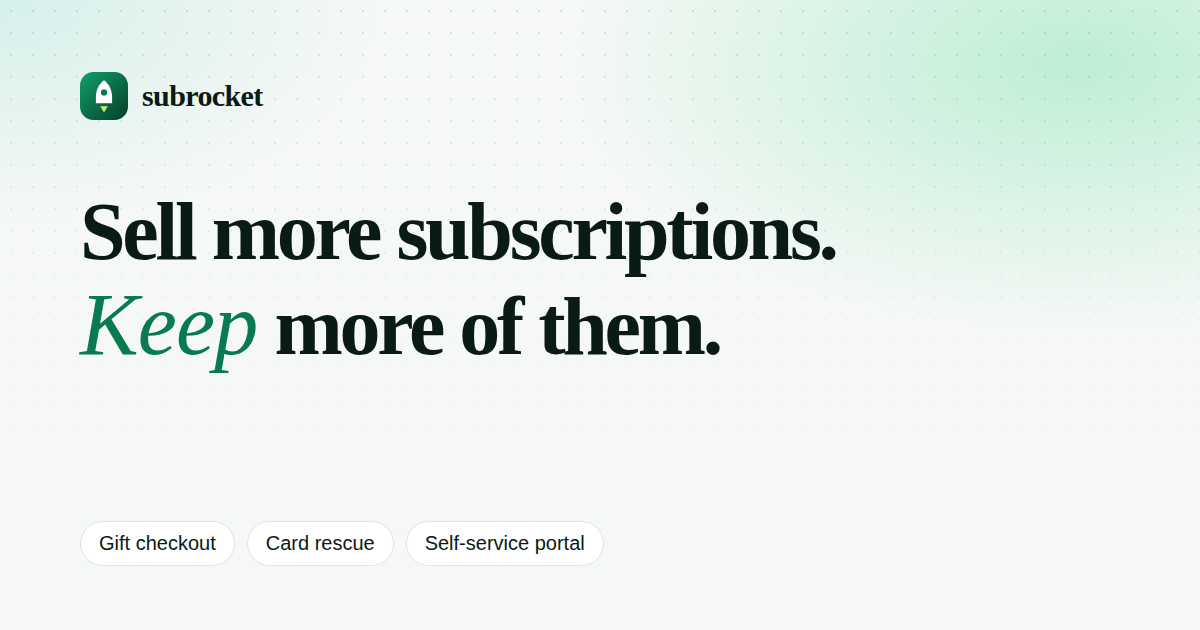
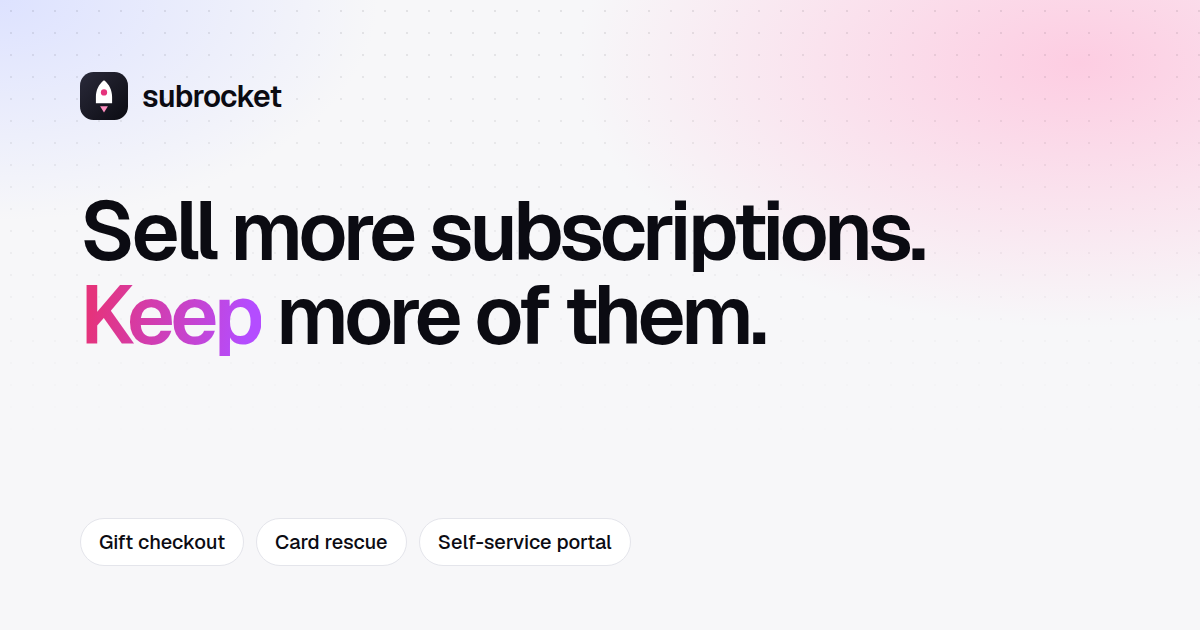
subrocket: ink and pink palette, Geist type, compact feature cards
Drop the green for near-black ink with a hot-pink accent and a
pink-to-violet gradient on accent words. Use Geist for headlines and
body. Collapse the three feature rows into compact cards with one line
and one number each, and stop calling them modules.

Claude-Session: https://claude.ai/code/session_01GQbYrLZqbEoq4zdKj7EZiu

diff --git a/subrocket/src/components/ProductPreview.tsx b/subrocket/src/components/ProductPreview.tsx
@@ -23,7 +23,7 @@ import { cn } from '@/lib/utils'
 const PRICE = 24
 
 const toggleItem =
-  'h-9 flex-1 rounded-md border border-border bg-background text-sm font-medium text-muted-foreground first:rounded-l-md last:rounded-r-md data-[state=on]:border-primary data-[state=on]:bg-accent data-[state=on]:text-accent-foreground'
+  'h-9 flex-1 rounded-md border border-border bg-background text-sm font-medium text-muted-foreground first:rounded-l-md last:rounded-r-md data-[state=on]:border-pop data-[state=on]:bg-accent data-[state=on]:text-accent-foreground'
 
 function Checkout() {
   const [gift, setGift] = useState(false)
@@ -46,7 +46,7 @@ function Checkout() {
       <div
         className={cn(
           'flex items-center justify-between gap-4 rounded-xl border px-4 py-3 transition-colors',
-          gift ? 'border-primary/50 bg-accent' : 'border-border bg-muted/50',
+          gift ? 'border-pop/50 bg-accent' : 'border-border bg-muted/50',
         )}
       >
         <Label htmlFor="gift-toggle" className="flex cursor-pointer items-center gap-2.5 text-sm font-medium">
@@ -57,7 +57,7 @@ function Checkout() {
           id="gift-toggle"
           checked={gift}
           onCheckedChange={setGift}
-          className="data-[state=checked]:bg-brand"
+          className="data-[state=checked]:bg-pop"
         />
       </div>
 
@@ -127,24 +127,24 @@ function Rescue() {
     <div className="space-y-5">
       <div className="flex items-center justify-between gap-4 rounded-xl border border-border bg-muted/50 p-4">
         <div className="flex items-center gap-3">
-          <div className="flex h-9 w-14 items-center justify-center rounded-md bg-gradient-to-br from-brand to-brand-deep font-mono text-[0.65rem] font-medium tracking-widest text-white">VISA</div>
+          <div className="flex h-9 w-14 items-center justify-center rounded-md bg-gradient-to-br from-pop to-pop-deep font-mono text-[0.65rem] font-medium tracking-widest text-white">VISA</div>
           <div>
             <p className="font-mono text-sm">•••• 0341</p>
             <p className="text-xs text-muted-foreground">Expires 11/26</p>
           </div>
         </div>
-        <Badge className="rounded-full border-primary/30 bg-accent text-accent-foreground">
+        <Badge className="rounded-full border-pop/30 bg-accent text-accent-foreground">
           <Check aria-hidden="true" /> Rescued
         </Badge>
       </div>
 
-      <ol className="relative space-y-5 pl-1 before:absolute before:left-[17px] before:top-3 before:h-[calc(100%-1.5rem)] before:w-px before:bg-gradient-to-b before:from-primary/50 before:to-brand/60">
+      <ol className="relative space-y-5 pl-1 before:absolute before:left-[17px] before:top-3 before:h-[calc(100%-1.5rem)] before:w-px before:bg-gradient-to-b before:from-primary/50 before:to-pop/60">
         {rescueSteps.map((step) => (
           <li key={step.day} className="relative flex gap-4">
             <span
               className={cn(
                 'relative z-10 flex size-8 shrink-0 items-center justify-center rounded-full ring-4 ring-card',
-                step.state === 'sent' ? 'bg-accent text-accent-foreground' : 'bg-brand text-white',
+                step.state === 'sent' ? 'bg-accent text-accent-foreground' : 'bg-pop text-white',
               )}
             >
               {step.state === 'sent' ? <Mail className="size-4" aria-hidden="true" /> : <Check className="size-4" aria-hidden="true" />}
@@ -180,13 +180,13 @@ function Portal() {
             <p className="text-xs text-muted-foreground">$24/mo · Renews Nov 3</p>
           </div>
         </div>
-        <Badge variant="outline" className={cn('rounded-full', paused && 'border-primary/30 bg-accent text-accent-foreground')}>
+        <Badge variant="outline" className={cn('rounded-full', paused && 'border-pop/30 bg-accent text-accent-foreground')}>
           {paused ? `Paused until ${resumeDates[pause]}` : 'Active'}
         </Badge>
       </div>
 
       {cancelling ? (
-        <div className="rounded-xl border border-primary/30 bg-frost p-4">
+        <div className="rounded-xl border border-pop/30 bg-cloud p-4">
           <p className="font-display text-base font-semibold">Before you go</p>
           <p className="mt-1 text-sm text-muted-foreground">Take two months off instead. You won’t be charged while paused.</p>
           <div className="mt-4 flex flex-wrap gap-2">
@@ -209,7 +209,7 @@ function Portal() {
       ) : (
         <div className="rounded-xl border border-border bg-muted/50 p-4">
           <p className="flex items-center gap-2 text-sm font-medium">
-            <Pause className="size-4 text-primary" aria-hidden="true" /> Pause deliveries
+            <Pause className="size-4 text-pop" aria-hidden="true" /> Pause deliveries
           </p>
           <ToggleGroup
             type="single"
@@ -275,8 +275,8 @@ export default function ProductPreview() {
 
   return (
     <div className="relative w-full">
-      <div className="absolute -inset-6 -z-10 rounded-[2.5rem] bg-gradient-to-br from-mint via-white/40 to-frost blur-2xl" aria-hidden="true" />
-      <div className="overflow-hidden rounded-2xl border border-border bg-card shadow-[0_40px_80px_-30px_rgb(5_61_41/0.35),0_2px_6px_rgb(5_61_41/0.06)]">
+      <div className="absolute -inset-6 -z-10 rounded-[2.5rem] bg-gradient-to-br from-pop-soft via-white/40 to-cloud blur-2xl" aria-hidden="true" />
+      <div className="overflow-hidden rounded-2xl border border-border bg-card shadow-[0_40px_80px_-30px_rgb(11_11_18/0.35),0_2px_6px_rgb(11_11_18/0.06)]">
         <div className="flex items-center gap-3 border-b border-border bg-muted/40 px-4 py-2.5">
           <div className="flex gap-1.5" aria-hidden="true">
             <span className="size-2.5 rounded-full bg-border" />
@@ -296,7 +296,7 @@ export default function ProductPreview() {
                 <TabsTrigger
                   key={t.value}
                   value={t.value}
-                  className="rounded-full text-xs font-medium sm:text-sm data-[state=active]:text-primary data-[state=active]:shadow-sm"
+                  className="rounded-full text-xs font-medium sm:text-sm data-[state=active]:text-pop data-[state=active]:shadow-sm"
                 >
                   {t.label}
                 </TabsTrigger>

diff --git a/subrocket/src/styles/global.css b/subrocket/src/styles/global.css
@@ -2,27 +2,25 @@
 @import "tw-animate-css";
 
 /*
- * subrocket design system: "Fresh growth"
- * Cool, light canvas with a green cast. Deep green for action, lime as a rare highlight.
+ * subrocket design system: "Ink & pop"
+ * Cool off-white canvas, near-black ink for text and buttons, one hot-pink accent.
  * Fonts are loaded with <link> tags in Layout.astro.
  */
 
 @custom-variant dark (&:is(.dark *));
 
 @theme {
-  --font-display: 'Instrument Sans', ui-sans-serif, sans-serif;
-  --font-serif: 'Instrument Serif', ui-serif, Georgia, serif;
+  --font-display: 'Geist', ui-sans-serif, sans-serif;
   --font-body: 'Geist', ui-sans-serif, sans-serif;
   --font-sans: 'Geist', ui-sans-serif, sans-serif;
   --font-mono: 'Geist Mono', ui-monospace, monospace;
 
   /* Brand extras beyond the shadcn tokens */
-  --color-ink: #0a1a14;
-  --color-brand: #087a4f;
-  --color-brand-deep: #053d29;
-  --color-mint: #d6f3e4;
-  --color-frost: #eff8f3;
-  --color-lime: #c6ef6a;
+  --color-ink: #0b0b12;
+  --color-pop: #e5337c;
+  --color-pop-deep: #9d1450;
+  --color-pop-soft: #fde8f1;
+  --color-cloud: #f3f4f8;
 
   --animate-accordion-down: accordion-down 0.25s cubic-bezier(0.22, 1, 0.36, 1);
   --animate-accordion-up: accordion-up 0.2s cubic-bezier(0.22, 1, 0.36, 1);
@@ -31,24 +29,24 @@
 :root {
   --radius: 0.75rem;
 
-  --background: #f5f8f6;
-  --foreground: #0a1a14;
+  --background: #f7f7f9;
+  --foreground: #0b0b12;
   --card: #ffffff;
-  --card-foreground: #0a1a14;
+  --card-foreground: #0b0b12;
   --popover: #ffffff;
-  --popover-foreground: #0a1a14;
-  --primary: #087a4f;
+  --popover-foreground: #0b0b12;
+  --primary: #0b0b12;
   --primary-foreground: #ffffff;
-  --secondary: #e8f1ec;
-  --secondary-foreground: #0a1a14;
-  --muted: #edf3ef;
-  --muted-foreground: #4f6158;
-  --accent: #e1f4ea;
-  --accent-foreground: #065c3b;
+  --secondary: #eeeff3;
+  --secondary-foreground: #0b0b12;
+  --muted: #f0f1f4;
+  --muted-foreground: #5c5f6e;
+  --accent: #fde8f1;
+  --accent-foreground: #a3175a;
   --destructive: #d23a4f;
-  --border: #dce6e0;
-  --input: #ccdad2;
-  --ring: #087a4f;
+  --border: #e4e5eb;
+  --input: #d9dbe3;
+  --ring: #e5337c;
 
   --easing: cubic-bezier(0.22, 1, 0.36, 1);
 }
@@ -98,39 +96,40 @@
   }
   h1, h2, h3 {
     font-family: var(--font-display);
-    letter-spacing: -0.035em;
-    line-height: 1.04;
+    letter-spacing: -0.045em;
+    line-height: 1;
+    font-weight: 600;
     text-wrap: balance;
   }
   p {
     text-wrap: pretty;
   }
   ::selection {
-    background: var(--color-lime);
-    color: var(--color-brand-deep);
+    background: var(--color-pop-soft);
+    color: var(--color-pop-deep);
   }
 }
 
 /* Faint dot grid, masked per section */
 .bg-dots {
-  background-image: radial-gradient(rgb(8 122 79 / 0.16) 1px, transparent 1px);
+  background-image: radial-gradient(rgb(11 11 18 / 0.09) 1px, transparent 1px);
   background-size: 22px 22px;
 }
 
 /* Cool mesh behind the hero */
 .bg-mesh {
   background:
-    radial-gradient(60% 55% at 85% 10%, rgb(190 238 212 / 0.85), transparent 70%),
-    radial-gradient(45% 45% at 10% 0%, rgb(214 240 235 / 0.8), transparent 70%),
-    radial-gradient(40% 40% at 60% 90%, rgb(228 245 200 / 0.6), transparent 70%);
+    radial-gradient(55% 55% at 88% 8%, rgb(253 205 226 / 0.75), transparent 70%),
+    radial-gradient(45% 50% at 5% 0%, rgb(221 226 255 / 0.85), transparent 70%),
+    radial-gradient(40% 40% at 55% 95%, rgb(240 232 255 / 0.7), transparent 70%);
 }
 
-/* Serif italic accent inside display headlines */
-.accent-serif {
-  font-family: var(--font-serif);
-  font-style: italic;
-  font-weight: 400;
-  letter-spacing: -0.01em;
+/* Accent words inside display headlines */
+.accent-text {
+  background: linear-gradient(100deg, #e5337c 10%, #b44dff 90%);
+  -webkit-background-clip: text;
+  background-clip: text;
+  color: transparent;
 }
 
 .eyebrow {

diff --git a/subrocket/src/components/FAQAccordion.tsx b/subrocket/src/components/FAQAccordion.tsx
@@ -9,9 +9,9 @@ export default function FAQAccordion({ faqs }: { faqs: Faq[] }) {
         <AccordionItem
           key={index}
           value={`item-${index}`}
-          className="rounded-2xl border border-border bg-card px-6 transition-all last:border-b data-[state=open]:border-primary/30 data-[state=open]:shadow-[0_18px_40px_-28px_rgb(5_61_41/0.45)] hover:border-primary/25"
+          className="rounded-2xl border border-border bg-card px-6 transition-all last:border-b data-[state=open]:border-pop/30 data-[state=open]:shadow-[0_18px_40px_-28px_rgb(11_11_18/0.45)] hover:border-pop/25"
         >
-          <AccordionTrigger className="py-5 font-display text-[1.05rem] font-semibold tracking-tight hover:no-underline [&>svg]:size-5 [&>svg]:text-primary">
+          <AccordionTrigger className="py-5 font-display text-[1.05rem] font-semibold tracking-tight hover:no-underline [&>svg]:size-5 [&>svg]:text-pop">
             {faq.question}
           </AccordionTrigger>
           <AccordionContent className="pb-6 text-[0.98rem] leading-relaxed text-muted-foreground">{faq.answer}</AccordionContent>

diff --git a/subrocket/src/components/QuoteAvatar.tsx b/subrocket/src/components/QuoteAvatar.tsx
@@ -4,7 +4,7 @@ import { Avatar, AvatarFallback } from '@/components/ui/avatar'
 export default function QuoteAvatar({ initials }: { initials: string }) {
   return (
     <Avatar className="size-11 ring-2 ring-white">
-      <AvatarFallback className="bg-gradient-to-br from-mint to-frost font-mono text-xs font-medium text-accent-foreground">
+      <AvatarFallback className="bg-gradient-to-br from-pop-soft to-cloud font-mono text-xs font-medium text-accent-foreground">
         {initials}
       </AvatarFallback>
     </Avatar>
